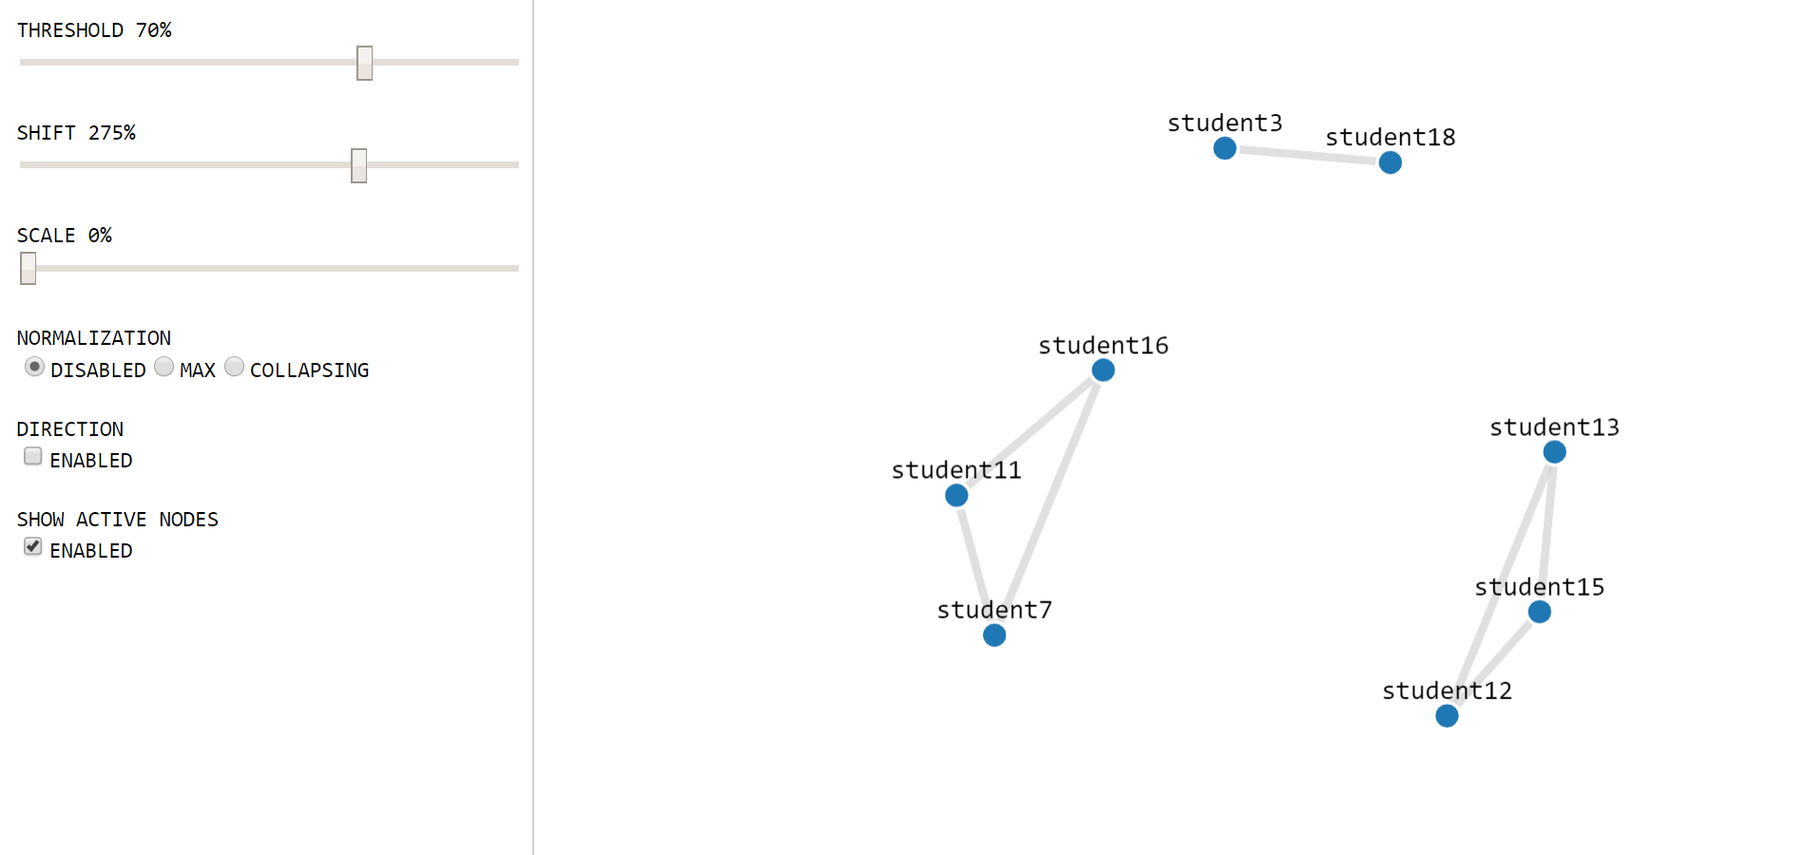
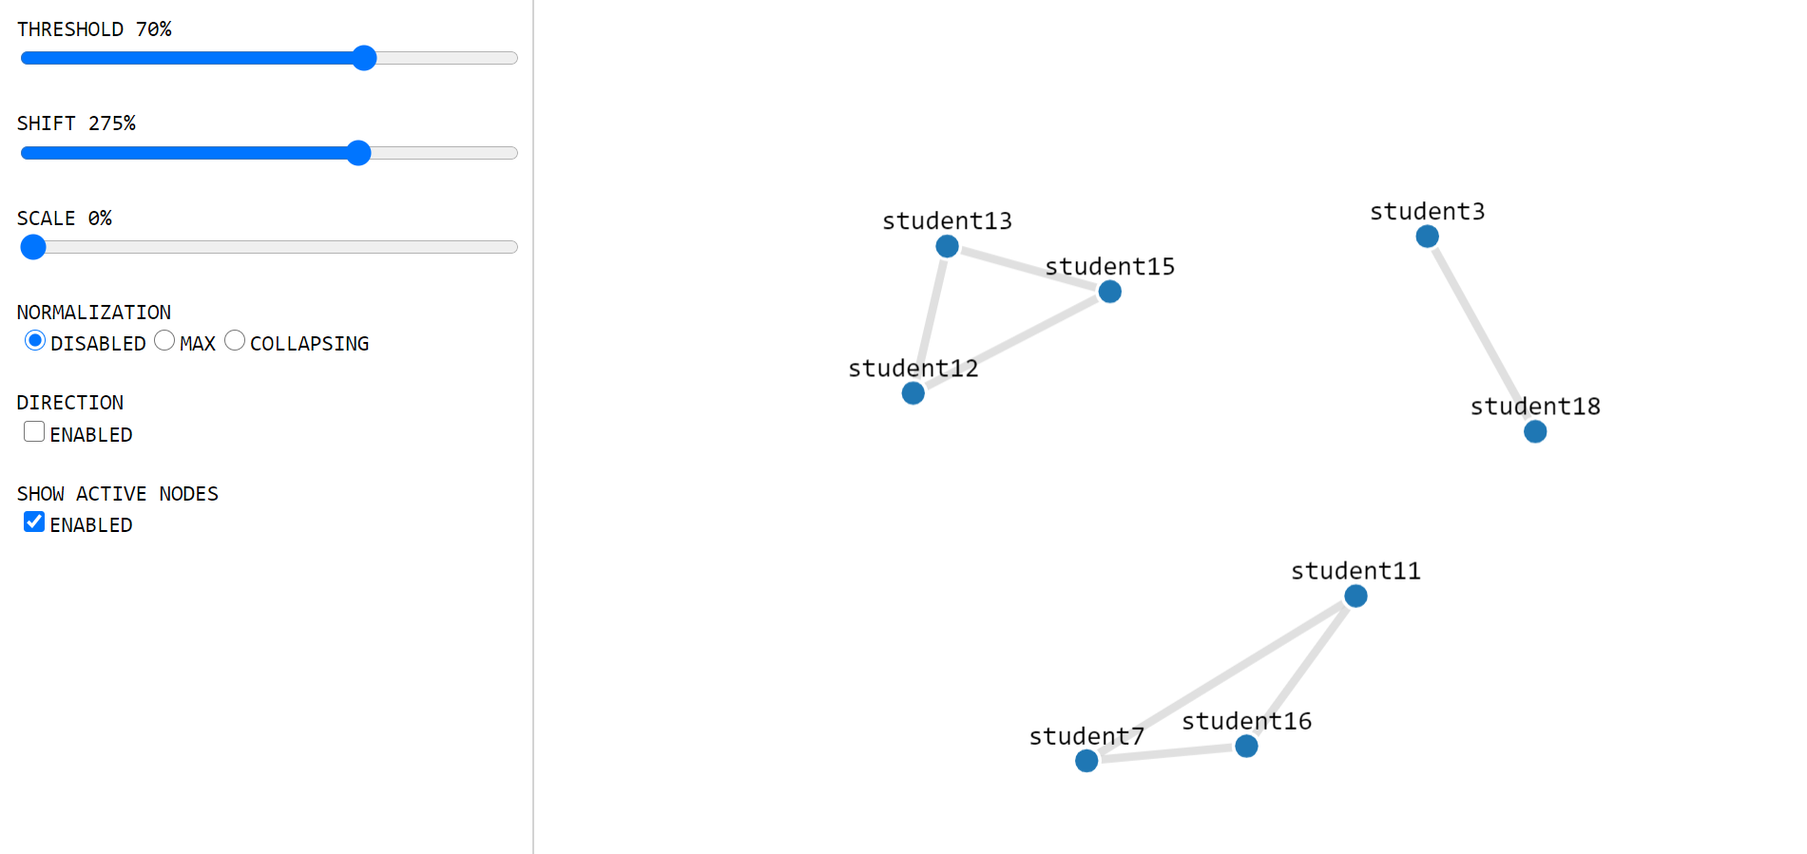
Добавляет значительную часть правок по замечаниям

diff --git a/main.tex b/main.tex
@@ -95,7 +95,11 @@ MOSS является бесплатным веб-сервисом поиска 
 
 Упомянутый выше инструмент визуализации плагиата делает большой шаг вперед к простоте интерпретации результатов анализа плагиата. Однако, он не позволяет динамически менять параметры, определяющие структуру графа, что ограничивает преподавателя в возможности наглядного рассмотрения зависимостей в различных перспективах и с отличающимся масштабом. По этой причине был создан инструмент\footnote{Инструмент интерактивной визуализации графов. \url{https://github.com/tcibinan/data2graph}} интерактивной визуализации графов.
 
-Инструмент рассматривает обучающихся как вершины графа, а случаи заимствования как ребра графа, соединяющие двух различных обучающихся. В качестве веса ребра $w$ используется значение процента соответствующего заимствования, которое лежит в интервале $[0,100]$. Процент заимствования может составлять разную долю в исходном и скопированном решении. Тем не менее на практике разница составляет единицы процентов и для отображения выбирается наибольшее значение. Учитывая, что б\'{о}льшие веса соответствуют меньшим расстояниям между двумя решениями в пространстве всех возможных решений некоторой задачи, значения длин ребер $l$ должны быть тем меньше, чем больший вес им соответствует. При таком подходе на построенном графе можно визуально различать кластеры, каждый из которых определяет группу обучающихся, работы которых содержат значительно выделяющееся количество заимствований друг между другом. В случае отсутствия ярко выделенных кластеров, можно говорить о том, что примеров плагиата в работах найти не удалось или о том, что необходимо изменить параметры отображения графа.
+Инструмент рассматривает обучающихся как вершины графа, а случаи заимствования как ребра графа, соединяющие двух различных обучающихся. В качестве веса ребра $w$ используется значение процента соответствующего заимствования, которое лежит в интервале $[0,100]$. Процент заимствования может составлять разную долю в исходном и скопированном решениях. Тем не менее на практике разница составляет единицы процентов и для отображения выбирается наибольшее значение.
+
+В связи с тем, что рассчитываемые на основе веса длины ребер не могут быть прямо отображены на плоскость, для визуализации графа заимствований используется силовой алгоритм, который позволяет с определенной точностью отображать на плоскости вершины и ребра с заданной длиной. Это достигается путем формирования сил, действующих на отдельные вершины и стремящихся свести разницу между требуемой и фактической длиной всех ребер к нулю. Далее в статье под термином длина подразумевается именно требуемая длина, а не фактическая.
+
+Учитывая, что б\'{о}льшие веса соответствуют меньшим расстояниям между двумя решениями в пространстве всех возможных решений некоторой задачи, значения длин ребер $l$ должны быть тем меньше, чем больший вес им соответствует. При таком подходе построенный граф позволит визуально различать кластеры, каждый из которых определяет группу обучающихся, работы которых содержат значительно выделяющееся количество заимствований друг между другом. В случае отсутствия ярко выделенных кластеров, можно говорить о том, что примеров плагиата в работах найти не удалось или о том, что необходимо изменить параметры отображения графа.
 
 В рамках проведения ряда практических курсов по программированию с использованием образовательной системы Flaxo было отмечено следующее явление: среднее значение процента общего кода всех найденных заимствований для каждого задания уникально и может значительно отличаться. При этом число подтвержденных случаев заимствований не всегда зависит от выявленного среднего значения процента общего кода.
 
@@ -163,20 +167,20 @@ MOSS является бесплатным веб-сервисом поиска 
     \label{tab:cppCourseStats}
 \end{table}
 
-Также для некоторых практических заданий проведение анализа плагиата может и вовсе являться избыточным, например, если код ожидаемого решения представляется достаточно стереотипичным или даже де-факто стандартным, чтобы ожидать больших содержательных расхождений между решениями обучающихся. В каждом частном случае преподователь должен принимать решение о целесообразности проведения анализа плагиата и интерпретации его результатов.
+Также для некоторых практических заданий проведение анализа плагиата может и вовсе являться избыточным, например, если код ожидаемого решения представляется достаточно стереотипичным или даже де-факто стандартным, чтобы ожидать больших содержательных расхождений между решениями обучающихся. В каждом частном случае преподаватель должен принимать решение о целесообразности проведения анализа плагиата и интерпретации его результатов.
 
 С учетом того, что в некоторых случаях минимизация базового кода заданий не представляется возможной, а опираться на абсолютные значения весов ребер не всегда эффективно, необходимо использовать нормализованные относительные значения, сформированные с учетом минимальных и максимальных значений весов.
 
-Для получения более наглядной картины в некоторых других случаях удобно использовать возможность \textit{пороговой нормализации}, которая позволяет объединять в кластеры обучающихся, обладающих заимствованиями с весом превышающим некоторое заданное пороговое значение $r$.
+Для получения более наглядной картины в некоторых других случаях удобно использовать возможность \textit{пороговой нормализации}, которая позволяет объединять в кластеры обучающихся, обладающих заимствованиями с весом превышающим некоторое заданное пороговое значение $r$. Кластеризация в данном случае обусловлена механизмом работы силового алгоритма отображения графа на плоскость, которому на вход приходят заимствования с длиной ребер стремящейся к нулю.
 
-Помимо прочего, существует ряд случаев, ведущих к необходимости как относительного, так и абсолютного масштабирования длин ребер графа. К примеру, при отключенной нормализации весов задания со смещенной нормой распределения процентов заимствованного кода влево будут представлены графом с очень короткими ребрами, на котором крайне сложно разобрать отдельные связи. В этом случае существование относительного масштабирования позволит сохранить пропорции длин ребер и при этом сделать их различимыми. В другом случае, при очень высоких значениях весов ребер, их длины стремятся к нулю, отчего вершины графа могут накладываться друг на друга и становиться трудноразличимыми. Возможность абсолютного масштабирования позволяет справиться с этой ситуацией, путем добавления некоторой фиксированной базовой длины всем ребрам.
+Помимо прочего, существует ряд случаев, ведущих к необходимости как относительного, так и абсолютного масштабирования длин ребер в графе. К примеру, при отключенной нормализации длин ребер задания со смещенным средним значением процента заимствованного кода влево будут представлены графом с очень длинными ребрами, которые могут выходить за границы экрана. В этом случае существование относительного масштабирования позволит сохранить пропорции длин и при этом уменьшить отображаемый граф до необходимого размера. В другом случае, при очень высоких значениях весов части ребер, их длины стремятся к нулю, отчего вершины графа могут накладываться друг на друга и становиться трудноразличимыми. Возможность абсолютного масштабирования позволяет справиться с этой ситуацией, путем добавления некоторой фиксированной базовой длины всем ребрам в графе.
 
-Итоговая формула длины ребра графа представляется в следующем виде
+Итоговая формула длины ребра в графе представляется в следующем виде
 \begin{equation}
     l_i = (1-\eta(w_i))s+h \text{ для всех i} \in 1, ..., n,
 \end{equation}
 где $l_i$ - длина $i$-ого ребра,
-\\$w_i$ - вес $i$ ребра,
+\\$w_i$ - вес $i$-ого ребра,
 \\$n$ - число ребер в графе,
 \\$\eta$ - выбранная функция нормализации,
 \\$s$ - параметр относительного масштабирования,
@@ -219,6 +223,15 @@ MOSS является бесплатным веб-сервисом поиска 
 \includegraphics[width=1.0\textwidth]{graph.png}
 \caption{Граф заимствований}
 \label{fig:graph}
+\end{figure}
+
+Пример применения пороговой нормализации при пороге отображения равного 50\% приведен на рис. \ref{fig:graph_normalization}. Можно заметить, что применение нормализации позволяет визуально выделить кластеры связанных обучающихся, однако также не позволяет различать отдельные заимствования. В связи с этим, использование разных видов нормализации и параметров масштабирования должно сочетаться между собой для наиболее эффективного исследование результатов анализа плагиата.
+
+\begin{figure}[h!]
+\centering
+\includegraphics[width=1.0\textwidth]{graph_normalization.png}
+\caption{Использование нормализации}
+\label{fig:graph_normalization}
 \end{figure}
 
 \subsection{Детальные отчеты}
